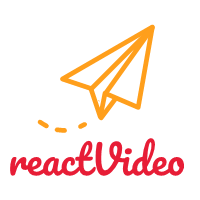
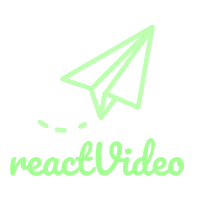
refactored to meet ada compliance

diff --git a/src/client/styles/header.scss b/src/client/styles/header.scss
@@ -3,46 +3,23 @@
 .header {
   padding: 0 30px 0 30px;
   display: flex;
-  justify-content: space-between;
+  justify-content: center;
   align-items: center;
-  color: #ff9f1c;
-  border: 4px groove #2ec4b6;
+  color: #b2d3b2;
+  border: 4px groove #213b21;
   margin: 0 auto;
   width: 90vw;
   text-align: center;
   font-family: "Pacifico", cursive;
   font-size: 30px;
   letter-spacing: 7px;
-  background-color: #011627;
-}
-
-.loginButton {
-  outline: none;
-  box-shadow: 0px 5px #a56710;
-  background-color: #ff9f1c;
-  border-radius: 20px;
-  border: none;
-  color: #e71d36;
-  padding: 2px 20px;
-  text-align: center;
-  font-size: 20px;
-  display: inline-block;
-}
-
-.loginButton:hover {
-  box-shadow: 0px 3px #a56710;
-  top: 2px;
-}
-
-.loginButton:active {
-  box-shadow: none;
-  top: 3px;
+  background-color: #77b276;
 }
 
 .r {
-  color: #e71d36;
+  color: #487d47;
 }
 
 .v {
-  color: #e71d36;
+  color: #487d47;
 }

diff --git a/src/client/styles/videocard.scss b/src/client/styles/videocard.scss
@@ -1,22 +1,22 @@
 @import url("https://fonts.googleapis.com/css?family=Poor+Story");
 
 .videoCard {
-  background: #011627;
+  background: #77b276;
   padding: 2px 16px;
   text-align: center;
   display: block;
   margin: 5px;
   min-height: 330px;
   width: 350px;
-  border: 4px groove #2ec4b6;
-  box-shadow: 3px 1px 4px #2ec4b6;
+  border: 4px groove #0a2909;
+  box-shadow: 3px 1px 4px #0a2909;
 }
 .videoLink {
-  color: #ff9f1c;
+  color: #213b21;
   text-decoration: none;
   font-family: "Poor Story", cursive;
   font-size: 24px;
-  text-shadow: 2px 2px black;
+  text-shadow: 1px 1px black;
 }
 
 .videoLink:hover {
@@ -26,5 +26,5 @@
 p {
   font-family: "Poor Story", cursive;
   font-size: 20px;
-  color: #ff9f1c;
+  color: #213b21;
 }

diff --git a/src/client/styles/searchcomponent.scss b/src/client/styles/searchcomponent.scss
@@ -1,7 +1,7 @@
 @import url("https://fonts.googleapis.com/css?family=Poor+Story");
 
 .searchBar {
-  color: #ff9f1c;
+  color: #213b21;
   text-align: center;
   font-family: "Poor Story", cursive;
   font-size: 25px;
@@ -15,11 +15,11 @@
 
 #submitButton {
   outline: none;
-  box-shadow: 0px 5px #a56710;
-  background-color: #ff9f1c;
+  box-shadow: 0px 5px #0a2909;
+  background-color: #487d47;
   border-radius: 20px;
   border: none;
-  color: #e71d36;
+  color: #213b21;
   padding: 2px 20px;
   text-align: center;
   font-size: 20px;
@@ -27,7 +27,7 @@
 }
 
 #submitButton:hover {
-  box-shadow: 0px 3px #a56710;
+  box-shadow: 0px 3px #0a2909;
   top: 2px;
 }
 

diff --git a/src/client/Components/App.js b/src/client/Components/App.js
@@ -52,7 +52,7 @@ class App extends React.Component {
     this.setState({ query: e.target.value });
   }
 
-  handleSubmit(e) {
+  handleSubmit = async e => {
     let uri = `https://www.googleapis.com/youtube/v3/search?part=snippet&maxResults=20&q=${
       this.state.query
     }&type=video&videoDefinition=high&key=${process.env.API_KEY}`;
@@ -64,7 +64,7 @@ class App extends React.Component {
         this.setState({ searchData: resp.items, dataLogged: true });
       });
     e.preventDefault();
-  }
+  };
 
   render() {
     return (

diff --git a/src/client/styles/container.scss b/src/client/styles/container.scss
@@ -1,7 +1,9 @@
 .mainContainer {
-  background-color: #011627;
+  background-color: #77b276;
   box-sizing: border-box;
   justify-content: center;
+  border: solid;
+  border-color: #0a2909;
   display: flex;
   flex-wrap: wrap;
   padding: 10px;

diff --git a/src/client/Components/Header.js b/src/client/Components/Header.js
@@ -23,9 +23,7 @@ class Header extends React.Component {
             ideo
           </h1>
         </div>
-        <div>
-          <button className="loginButton">login</button>
-        </div>
+        <div />
       </div>
     );
   }

diff --git a/src/utils/index.js b/src/utils/index.js
@@ -1,4 +1,4 @@
-module.exports = fetchData = uri => {
+module.exports = fetchData = async uri => {
   fetch(uri)
     .then(data => {
       return data.json();

diff --git a/src/client/styles/index.scss b/src/client/styles/index.scss
@@ -1,3 +1,3 @@
 body {
-  background: #011627;
+  background: #b2d3b2;
 }
